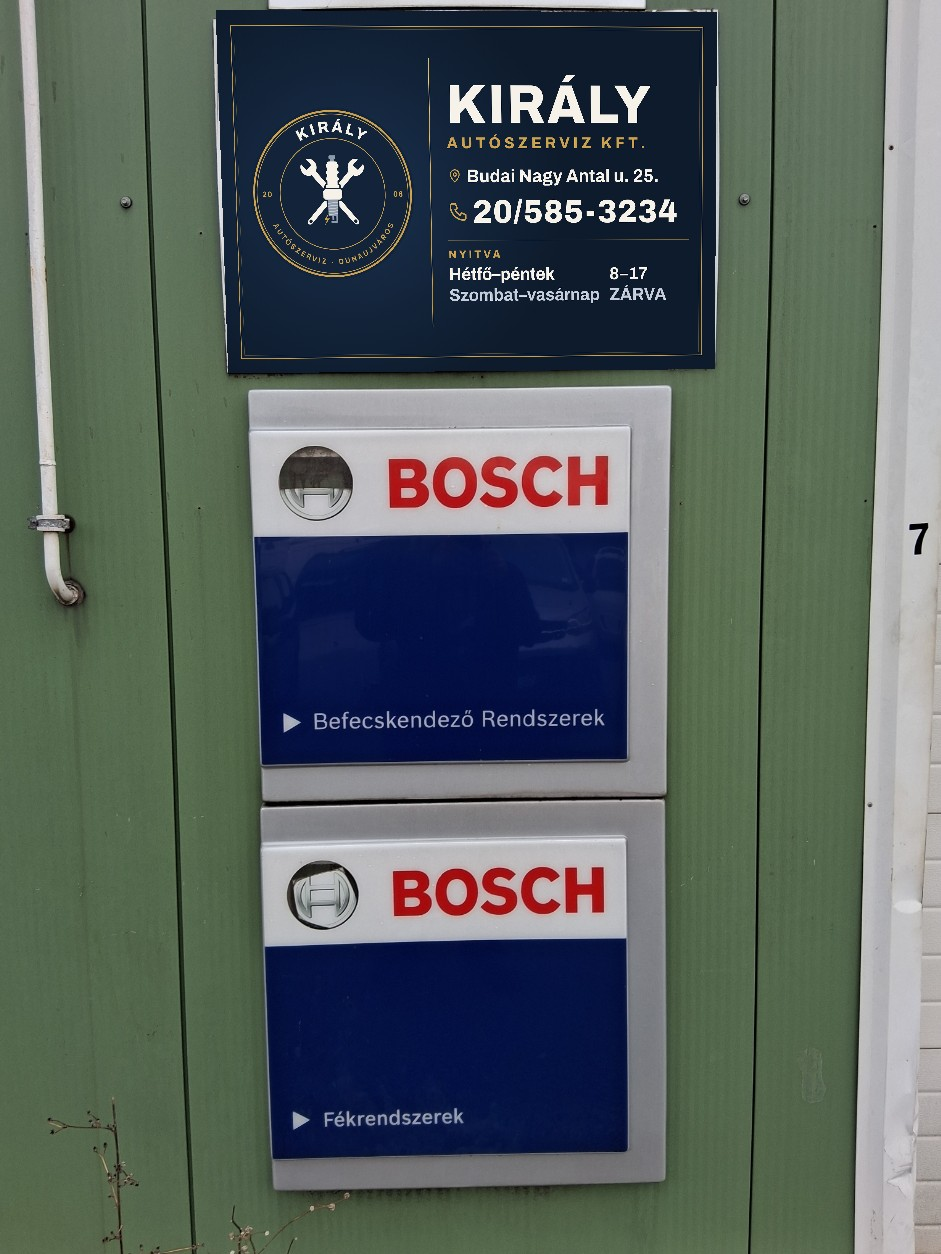
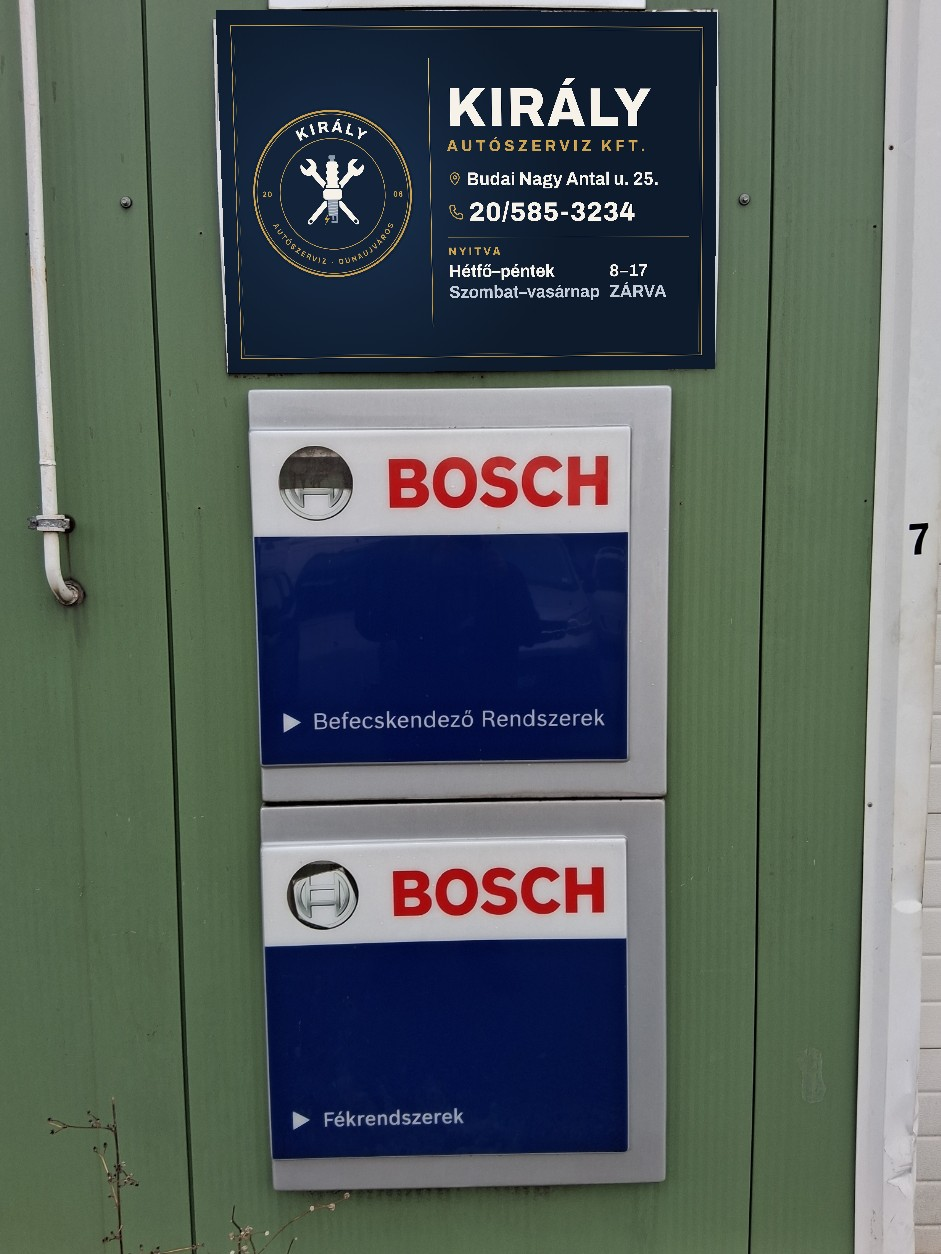
KIRÁLY: végleges tábla – kisebb, arányos telefonszám
Claude-Session: https://claude.ai/code/session_01JvnLNWN6UFNsRsF8v4UEEm

Changed region(s): [[0.4623, 0.0622, 0.7396, 0.2488]]

diff --git a/public/latvanytervek/kiraly-autoszerviz/_forras/tabla.py b/public/latvanytervek/kiraly-autoszerviz/_forras/tabla.py
@@ -37,8 +37,8 @@ html,body{{-webkit-print-color-adjust:exact;print-color-adjust:exact}}
 .sor svg{{flex:none;color:{GOLD}}}
 .cim{{margin-top:22mm;font-weight:700;font-size:28mm;letter-spacing:.01em}}
 .cim svg{{width:24mm;height:24mm}}
-.tel{{margin-top:12mm;font-weight:840;font-size:50mm;letter-spacing:.02em;white-space:nowrap}}
-.tel svg{{width:33mm;height:33mm}}
+.tel{{margin-top:13mm;font-weight:820;font-size:41mm;letter-spacing:.02em;white-space:nowrap}}
+.tel svg{{width:27mm;height:27mm}}
 .ny{{margin-top:16mm;padding-top:12mm;border-top:.8mm solid rgba(201,161,79,.55)}}
 .ny .c{{font-weight:750;font-size:17mm;letter-spacing:.22em;color:{GOLD};margin-bottom:5mm}}
 .ny table{{border-collapse:collapse;font-size:27mm;font-weight:700}}

diff --git a/public/latvanytervek/kiraly-autoszerviz/ATADAS.md b/public/latvanytervek/kiraly-autoszerviz/ATADAS.md
@@ -196,3 +196,4 @@ Fájlok: `fo` (háttérrel), `vilagos`/`sotet` (átlátszó), `sotet-hatterrel`,
 - 2026-11-09: műhelytábla 80×55 cm (fekvő), 3 mm kifutóval: `nyomdai/tabla/` – nyomdai PDF (806×556 mm), előnézet, falra illesztett próba az ügyfél fotóján. Tartalom a régi tábla szerint: Budai Nagy Antal u. 25., 20/585-3234, H–P 8–17, Szo–V zárva. Forrás: `_forras/tabla.py`.
 - 2026-11-09: tábla – adatok jóval nagyobbak (telefon 50 mm, cím és nyitvatartás 27–28 mm betűméret), logó 26 cm.
 - 2026-11-09: tábla két új iránya: A – arany telefonsáv (alul teljes szélességű arany sáv a telefonszámmal), B – krém–éjkék (világos mező nagy sötét betűkkel, jobbra éjkék mező a logóval). `_forras/tabla_v2.py`.
+- 2026-11-09: VÉGLEGES tábla: az első (sötétkék, keretes) irány, telefonszám 41 mm-re csökkentve az arányokért. Fájl: `nyomdai/tabla/kiraly-tabla-80x55cm-nyomdai-806x556mm.pdf`. Az A/B irány tartaléknak megmaradt.
